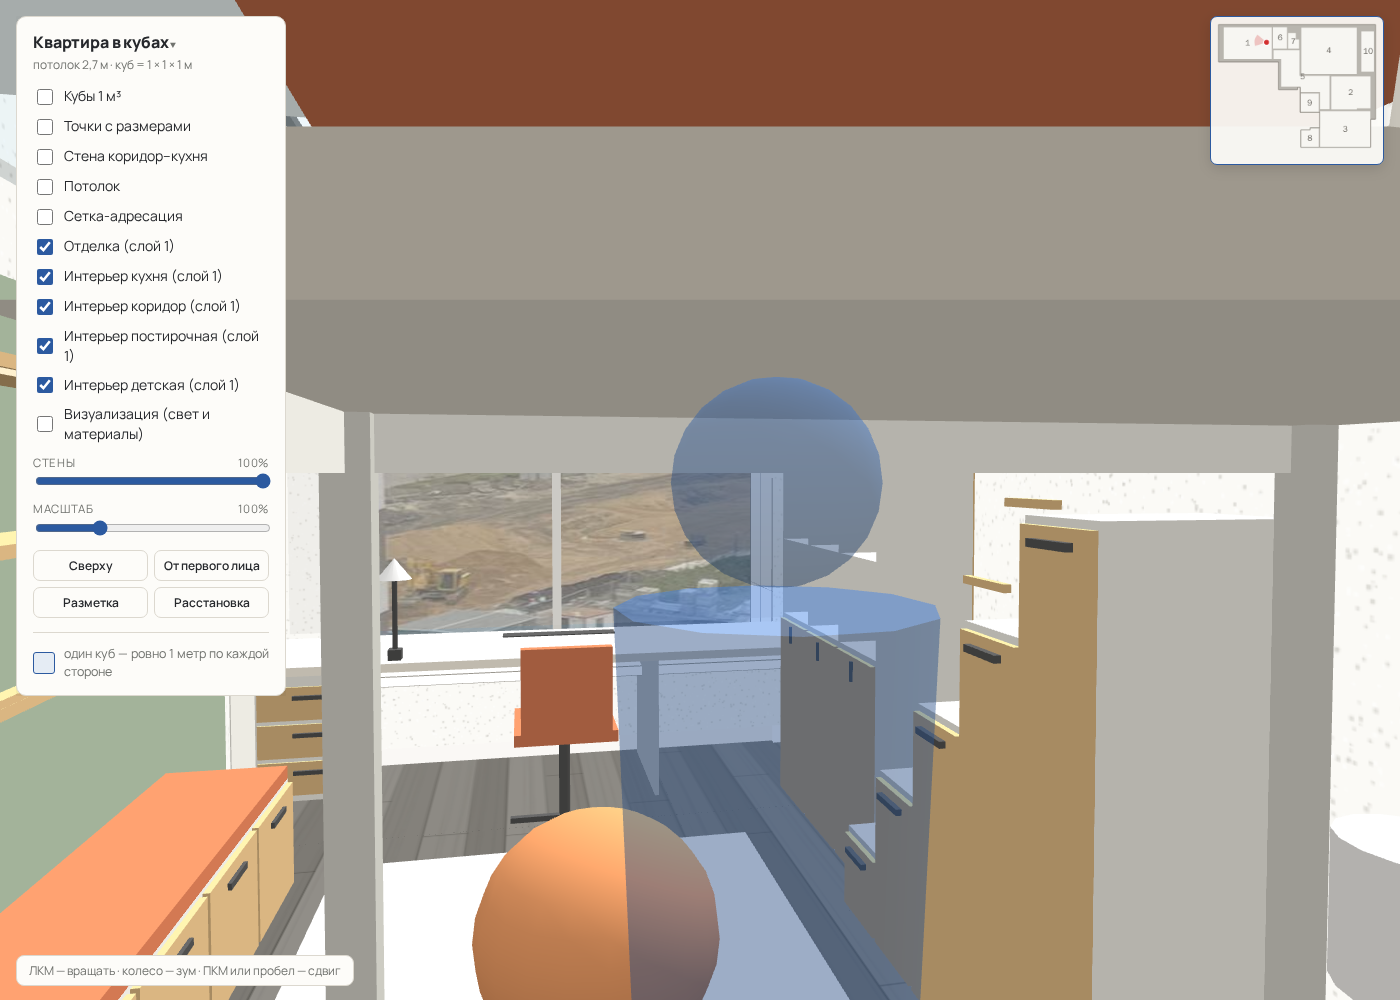
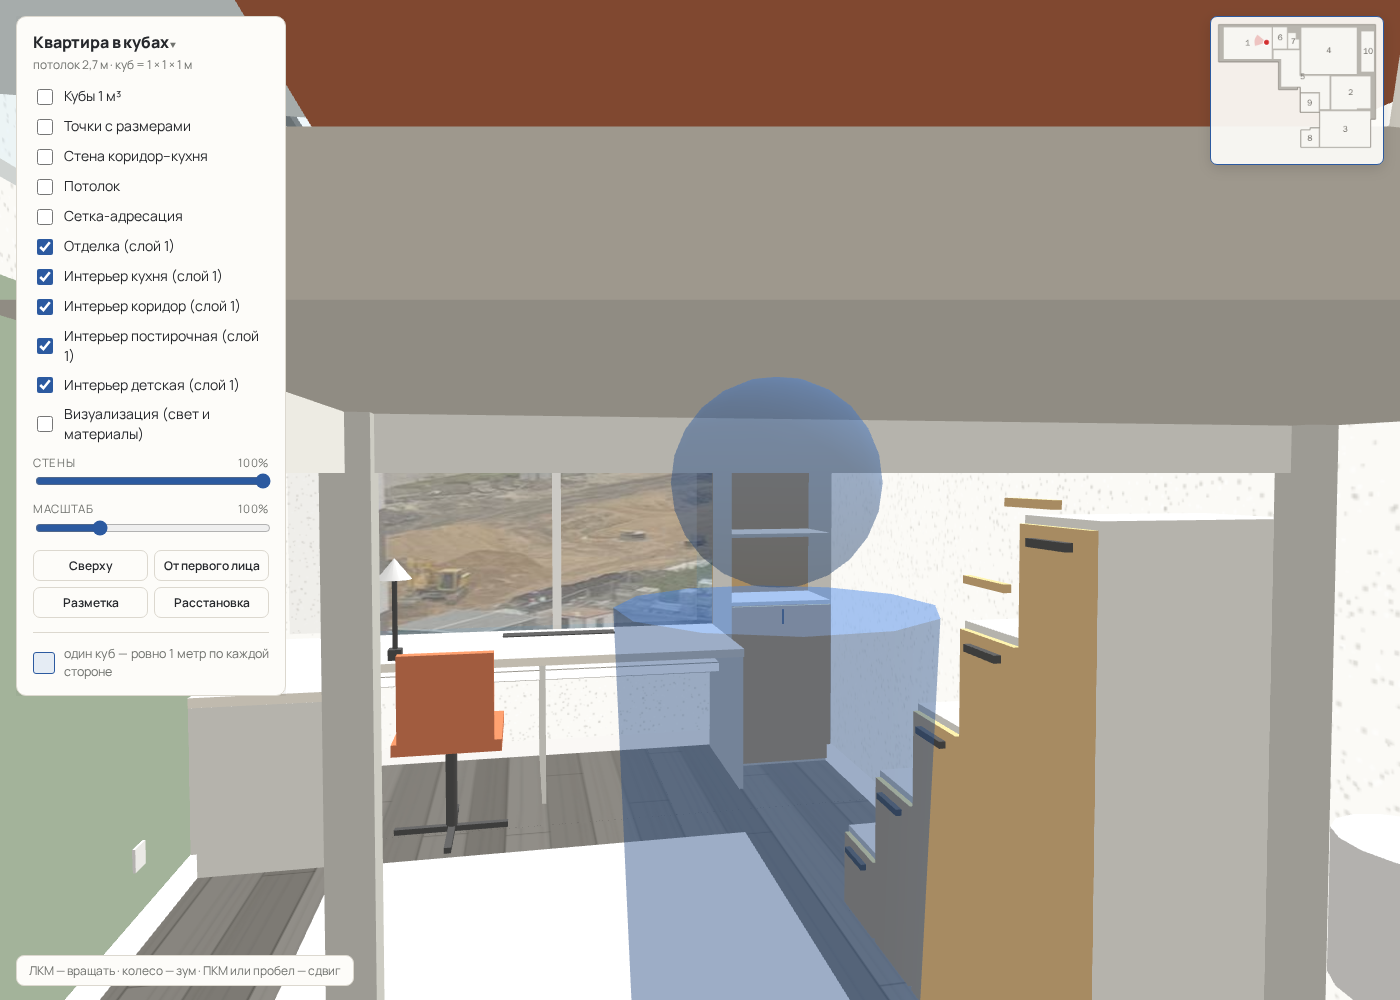
Комната 1: правки после просмотра — без мяча, полок и тумбы; угловой стол, узкий стеллаж в углу фасадом к двери

diff --git a/items.js b/items.js
@@ -114,30 +114,29 @@ const PHYS={}; // id → boxes
          b((x0+x1)/2-0.075,(x0+x1)/2+0.075,top-0.07,top-0.05,0.52,0.54,mat.knob);
          b(x0,x1,top+0.885,top+0.915,0.02,0.05,mat.oak); }                                          // handrail segments on the north wall, tread + 0.90
      }},
-    {id:'kiddesk',type:'стол-подоконник во всю западную стену',room:1,layer:'kid',pos:[0.896,1.874],rot:0,size:[0.75,0.72,2.99],fixed:'wall',
+    {id:'kiddesk',type:'угловой стол: вдоль окна 2.39 м и вдоль южной стены 1.23 м',room:1,layer:'kid',pos:[0.896,2.474],rot:0,size:[1.234,0.72,2.39],fixed:'wall',
      build(b){
-       b(0,0.75,0.68,0.72,0,2.99,mat.hpl);                                                           // worktop, light HPL
-       b(0.02,0.73,0,0.68,0,0.02,mat.kbody); b(0.02,0.73,0,0.68,2.97,2.99,mat.kbody);                // side panels
-       b(0.05,0.73,0,0.68,1.03,1.05,mat.kbody);                                                      // middle support at z≈2.9, clear of the chair
-       b(0.10,0.20,0.72,0.725,1.19,1.79,mat.knob);                                                   // vent grille over the radiator, 0.60 × 0.10
-       b(0.10,0.52,0.03,0.63,2.43,2.93,mat.kbody);                                                   // mobile pedestal 0.42 × 0.50 × 0.60
-       [0.06,0.24,0.42].forEach(y=>{ b(0.52,0.53,y,y+0.16,2.44,2.92,mat.oak); b(0.53,0.545,y+0.1,y+0.12,2.6,2.76,mat.knob); }); // 3 drawers
+       b(0,0.75,0.68,0.72,0,2.39,mat.hpl); b(0.75,1.234,0.68,0.72,1.79,2.39,mat.hpl);                 // worktop: west wing and south wing (depth 0.60)
+       b(0.02,0.73,0,0.68,0,0.02,mat.kbody); b(1.214,1.234,0,0.68,1.81,2.37,mat.kbody);               // end panels: north (at the shelf unit) and east
+       b(0.05,0.73,0,0.68,0.98,1.0,mat.kbody);                                                        // middle support under the west wing, clear of the chair
+       b(0.10,0.20,0.72,0.725,0.59,1.19,mat.knob);                                                     // vent grille over the radiator, 0.60 × 0.10
+       b(0.10,0.52,0.03,0.63,1.83,2.33,mat.kbody);                                                     // mobile pedestal 0.42 × 0.50 × 0.60 under the corner
+       [0.06,0.24,0.42].forEach(y=>{ b(0.52,0.53,y,y+0.16,1.84,2.32,mat.oak); b(0.53,0.545,y+0.1,y+0.12,2.0,2.16,mat.knob); }); // 3 drawers
      }},
-    {id:'kidchair',type:'рабочее кресло, регулируемое',room:1,layer:'kid',pos:[1.55,3.10],rot:0,size:[0.55,0.85,0.55],
+    {id:'kidchair',type:'рабочее кресло, регулируемое',room:1,layer:'kid',pos:[1.58,3.60],rot:0,size:[0.55,0.85,0.55],
      build(b,g){
        b(0.05,0.50,0.42,0.47,0.05,0.50,mat.terra); b(0.50,0.55,0.47,0.85,0.08,0.47,mat.terra);      // seat and back, faces the window
        const c=new THREE.Mesh(new THREE.CylinderGeometry(0.025,0.025,0.39,10),mat.knob); c.position.set(0.275,0.225,0.275); g.add(c); // gas lift
        b(0.03,0.52,0,0.03,0.26,0.29,mat.knob); b(0.26,0.29,0,0.03,0.03,0.52,mat.knob);                // base cross
      }},
-    {id:'kidshelf',type:'стеллаж до потолка',room:1,layer:'kid',pos:[1.646,1.874],rot:0,size:[1.189,2.70,0.43],fixed:'wall',
+    {id:'kidshelf',type:'стеллаж узкий в углу, фасадом к двери',room:1,layer:'kid',pos:[0.896,2.474],rot:270,size:[0.60,2.50,0.43],fixed:'wall',
      build(b){
-       const W=1.189, D=0.40, t=0.02, S=(W-4*t)/3;
-       b(0,W,0,t,0,D,mat.kbody); b(0,W,2.7-t,2.7,0,D,mat.kbody); b(0,W,t,2.7-t,0,t,mat.oak);         // bottom, top, oak back
-       for(let i=0;i<4;i++) b(i*(S+t),i*(S+t)+t,t,2.7-t,t,D,mat.kbody);                              // 4 verticals → 3 sections
-       [0.90,1.27,1.63,2.00].forEach(y=>b(t,W-t,y-t,y,t,D,mat.kbody));                                // shelves: closed 0–0.9, open cells 0.9–2.0, attic 2.0–2.7
-       for(let i=0;i<3;i++){ const x0=t+i*(S+t);
-         b(x0+0.003,x0+S-0.003,t+0.003,0.90-t-0.003,D,D+0.018,mat.oak); b(x0+S/2-0.005,x0+S/2+0.005,0.78,0.86,D+0.018,D+0.03,mat.knob);   // lower doors
-         b(x0+0.003,x0+S-0.003,2.0+0.003,2.7-t-0.003,D,D+0.018,mat.oak); b(x0+S/2-0.005,x0+S/2+0.005,2.05,2.13,D+0.018,D+0.03,mat.knob); } // attic doors
+       const W=0.60, D=0.40, t=0.02;
+       b(0,W,0,t,0,D,mat.kbody); b(0,W,2.5-t,2.5,0,D,mat.kbody); b(0,W,t,2.5-t,0,t,mat.oak);           // bottom, top, oak back
+       b(0,t,t,2.5-t,t,D,mat.kbody); b(W-t,W,t,2.5-t,t,D,mat.kbody);                                  // sides
+       [0.90,1.27,1.63,2.00].forEach(y=>b(t,W-t,y-t,y,t,D,mat.kbody));                                 // shelves: closed 0–0.9, open cells 0.9–2.0, attic 2.0–2.5
+       b(t+0.003,W-t-0.003,t+0.003,0.90-t-0.003,D,D+0.018,mat.oak); b(W/2-0.005,W/2+0.005,0.78,0.86,D+0.018,D+0.03,mat.knob);   // lower door
+       b(t+0.003,W-t-0.003,2.0+0.003,2.5-t-0.003,D,D+0.018,mat.oak); b(W/2-0.005,W/2+0.005,2.05,2.13,D+0.018,D+0.03,mat.knob); // attic door
      }},
     {id:'kidsofa',type:'диванчик в нише под кроватью',room:1,layer:'kid',pos:[4.65,2.05],rot:0,size:[0.75,0.80,1.60],
      build(b){
@@ -145,31 +144,16 @@ const PHYS={}; // id → boxes
        b(0,0.60,0.45,0.60,0,0.15,mat.fabric); b(0,0.60,0.45,0.60,1.45,1.60,mat.fabric);              // armrests
        [[0.03,0.03],[0.69,0.03],[0.03,1.54],[0.69,1.54]].forEach(([x,z])=>b(x,x+0.03,0,0.10,z,z+0.03,mat.knob)); // legs
      }},
-    {id:'kidbench',type:'тумба-скамья с 4 ящиками',room:1,layer:'kid',pos:[2.35,4.41],rot:0,size:[1.80,0.50,0.45],fixed:'wall',
-     build(b){
-       b(0.03,1.77,0,0.05,0.05,0.42,mat.knob); b(0,1.80,0.05,0.45,0.02,0.45,mat.kbody); b(0,1.80,0.45,0.50,0.02,0.45,mat.terra); // plinth, body, seat cushion
-       for(let i=0;i<4;i++){ const x0=0.01+i*0.45; b(x0,x0+0.43,0.06,0.44,0,0.02,mat.oak); b(x0+0.14,x0+0.29,0.38,0.40,-0.012,0,mat.knob); } // drawer fronts north
-     }},
-    {id:'kidledge',type:'планка для рисунков',room:1,layer:'kid',pos:[1.75,4.75],rot:0,size:[2.40,1.05,0.10],fixed:'wall',
-     build(b){ b(0,2.4,1.02,1.05,0,0.095,mat.oak); b(0,2.4,1.05,1.07,0,0.02,mat.oak); }},          // shelf and front lip
-    {id:'kidshelf1',type:'открытая полка для поделок, нижняя',room:1,layer:'kid',pos:[2.00,4.61],rot:0,size:[2.15,1.45,0.25],fixed:'wall',
-     build(b){ b(0,2.15,1.42,1.45,0,0.235,mat.oak); [0.02,1.065,2.11].forEach(x=>b(x,x+0.02,1.30,1.42,0.05,0.235,mat.kbody)); }}, // brackets
-    {id:'kidshelf2',type:'открытая полка для поделок, верхняя',room:1,layer:'kid',pos:[2.00,4.61],rot:0,size:[2.15,1.85,0.25],fixed:'wall',
-     build(b){ b(0,2.15,1.82,1.85,0,0.235,mat.oak); [0.02,1.065,2.11].forEach(x=>b(x,x+0.02,1.70,1.82,0.05,0.235,mat.kbody)); }},
-    {id:'led2',type:'LED-лента под верхней полкой (подсветка нижней)',room:1,layer:'kid',pos:[2.00,4.62],rot:0,size:[2.15,1.82,0.02],fixed:'wall',
-     build(b){ b(0,2.15,1.81,1.82,0,0.02,mat.led); }},
     {id:'pegboard',type:'перфорированная панель над столом',room:1,layer:'kid',pos:[0.95,4.814],rot:0,size:[0.65,1.75,0.03],fixed:'wall',
      build(b){ b(0,0.65,0.95,1.75,0.01,0.03,mat.oak); [[0.12,1.55],[0.32,1.55],[0.52,1.55],[0.2,1.2],[0.45,1.2]].forEach(([x,y])=>b(x,x+0.03,y,y+0.03,-0.02,0.01,mat.knob)); }}, // hooks
     {id:'kidrug',type:'ковёр моющийся',room:1,layer:'kid',pos:[2.15,2.60],rot:0,size:[1.60,0.01,1.70],
      build(b){ b(0,1.6,0,0.01,0,1.7,mat.rug); }},
-    {id:'beanbag',type:'кресло-мешок',room:1,layer:'kid',pos:[3.10,3.02],rot:0,size:[0.68,0.65,0.68],
-     build(b,g){ const s=new THREE.Mesh(new THREE.SphereGeometry(0.34,20,14),mat.ochre); s.scale.y=0.65/0.68; s.position.set(0.34,0.325,0.34); g.add(s); }},
     {id:'projector',type:'проектор короткофокусный на потолке (throw ≈0.57, экран M13)',room:1,layer:'kid',pos:[2.15,3.235],rot:0,size:[0.30,2.70,0.25],fixed:'wall',
      build(b,g){ b(0,0.30,2.44,2.56,0,0.25,mat.kbody); b(0.02,0.06,2.47,2.53,-0.005,0,mat.knob); const c=new THREE.Mesh(new THREE.CylinderGeometry(0.02,0.02,0.14,8),mat.knob); c.position.set(0.15,2.63,0.125); g.add(c); }}, // body, lens to the west, bracket
     {id:'screen',type:'кассета моторизованного экрана 2.20×1.24 (свёрнут)',room:1,layer:'kid',pos:[0.99,2.20],rot:0,size:[0.12,2.65,2.30],fixed:'wall',
      build(b){ b(0,0.12,2.53,2.65,0,2.30,mat.kbody); b(0.03,0.09,2.52,2.53,0.05,2.25,mat.knob); }},   // ponytail: canvas not modelled, add a toggle when the cinema view is needed
-    {id:'curtain',type:'карниз с тюлем (блэкаут в проёме окна)',room:1,layer:'kid',pos:[0.911,1.874],rot:0,size:[0.05,2.68,2.99],fixed:'wall',
-     build(b){ b(0.01,0.04,2.65,2.68,0,2.99,mat.kbody); b(0.015,0.025,0.75,2.64,0.10,2.89,mat.tulle); }},
+    {id:'curtain',type:'карниз с тюлем (блэкаут в проёме окна)',room:1,layer:'kid',pos:[0.911,2.474],rot:0,size:[0.05,2.68,2.39],fixed:'wall',
+     build(b){ b(0.01,0.04,2.65,2.68,0,2.39,mat.kbody); b(0.015,0.025,0.75,2.64,0.10,2.29,mat.tulle); }},
     {id:'kidlight',type:'потолочный светильник Ø0.50, 3000 K, диммер',room:1,layer:'kid',pos:[2.45,3.25],rot:0,size:[0.50,2.70,0.50],fixed:'wall',
      build(b,g){ const c=new THREE.Mesh(new THREE.CylinderGeometry(0.25,0.25,0.04,32),mat.lamp); c.position.set(0.25,2.68,0.25); g.add(c); }},
     {id:'track',type:'трек с 2 спотами на галерейную стену',room:1,layer:'kid',pos:[1.90,4.22],rot:0,size:[2.20,2.70,0.06],fixed:'wall',
@@ -185,10 +169,10 @@ const PHYS={}; // id → boxes
      build(b){ b(0,0.01,0.91,0.99,0,0.08,mat.lamp); }},
     // sockets: flat boxes 0.08 × 0.08 × 0.01 on the wall, purpose in the caption; all with shutters
     {id:'sock1',type:'розетки 2+2 USB у стола, южный торец',room:1,layer:'kid',pos:[1.16,4.834],rot:0,size:[0.08,0.94,0.01],fixed:'wall',build(b){ b(0,0.08,0.86,0.94,0,0.01,mat.lamp); }},
-    {id:'sock2',type:'розетки 2+2 USB у стола, северный торец',room:1,layer:'kid',pos:[1.26,1.894],rot:0,size:[0.08,0.94,0.01],fixed:'wall',build(b){ b(0,0.08,0.86,0.94,0,0.01,mat.lamp); }},
+    {id:'sock2',type:'розетки 2+2 USB у стола, восточный торец',room:1,layer:'kid',pos:[2.06,4.834],rot:0,size:[0.08,0.94,0.01],fixed:'wall',build(b){ b(0,0.08,0.86,0.94,0,0.01,mat.lamp); }},
     {id:'sock3',type:'розетка + USB в нише под кроватью, вывод HDMI от проектора',room:1,layer:'kid',pos:[5.415,3.69],rot:0,size:[0.01,0.44,0.08],fixed:'wall',build(b){ b(0,0.01,0.36,0.44,0,0.08,mat.lamp); }},
     {id:'sock4',type:'розетка у изголовья кровати (ночник, телефон)',room:1,layer:'kid',pos:[4.66,1.894],rot:0,size:[0.08,2.09,0.01],fixed:'wall',build(b){ b(0,0.08,2.01,2.09,0,0.01,mat.lamp); }},
-    {id:'sock5',type:'розетка общего назначения (пылесос, увлажнитель)',room:1,layer:'kid',pos:[1.96,4.834],rot:0,size:[0.08,0.34,0.01],fixed:'wall',build(b){ b(0,0.08,0.26,0.34,0,0.01,mat.lamp); }},
+    {id:'sock5',type:'розетка общего назначения (пылесос, увлажнитель)',room:1,layer:'kid',pos:[2.56,4.834],rot:0,size:[0.08,0.34,0.01],fixed:'wall',build(b){ b(0,0.08,0.26,0.34,0,0.01,mat.lamp); }},
     {id:'sock6',type:'розетка в потолке для проектора',room:1,layer:'kid',pos:[2.26,3.51],rot:0,size:[0.08,2.70,0.08],fixed:'wall',build(b){ b(0,0.08,2.69,2.70,0,0.08,mat.lamp); }},
     {id:'sock7',type:'розетка в потолке для мотора экрана',room:1,layer:'kid',pos:[1.06,2.11],rot:0,size:[0.08,2.70,0.08],fixed:'wall',build(b){ b(0,0.08,2.69,2.70,0,0.08,mat.lamp); }},
   ];

diff --git a/tools/check.js b/tools/check.js
@@ -357,7 +357,7 @@ const { chromium } = require('playwright');
     const sofaTop = bb(ITEM_GROUPS.kidsofa).max.y;
     return { n: kids.length, inside, hitPlat, warn, tops, sofaTop, bedPos: ITEM_GROUPS.kidbed.userData.pos };
   });
-  if (kid.n < 29) problems.push('комната 1: предметов слоя kid ' + kid.n + ' (< 29)');
+  if (kid.n < 23) problems.push('комната 1: предметов слоя kid ' + kid.n + ' (< 23)');
   if (kid.inside.length) problems.push('комната 1: предметы вне помещения: ' + kid.inside.join(', '));
   if (kid.hitPlat.length) problems.push('комната 1: пересекают платформу кровати: ' + kid.hitPlat.join(', '));
   if (kid.sofaTop > 1.7) problems.push('комната 1: диванчик выше низа платформы: ' + kid.sofaTop);

diff --git a/tasks/room1-kid/README.md b/tasks/room1-kid/README.md
@@ -357,6 +357,15 @@ issue: —
 
 Скриншоты: `room1-top.png`, `room1-door.png`, `room1-gallery.png`, `room1-bed.png` в этой папке.
 
+## Правки пользователя 2026-09-05 (после просмотра)
+
+- Убраны: кресло-мешок M11, полки M7/M8, планка M6, LED M21, тумба-скамья M5 (`.local/del0.png`).
+- Стол M1 стал угловым (`.local/eva_window.png`): вдоль окна z 2.474–4.864 и крыло 1.23 м вдоль южной стены (глубина 0.60);
+  крыло не длиннее — иначе до габарита кровати < 0.70. Кресло M2 в углу `[1.58, 3.60]`.
+- Стеллаж M3 заменён узким 0.60 × 0.40 × 2.50 в северо-западном углу, спиной к западной стене, фасадом к двери (`rot 270`).
+  Перекрывает 0.36 м окна (окно с z 2.11). Тюль M14 начинается от стеллажа.
+- Розетка M24 переехала с северной стены на южную над крылом стола (x 2.06); M27 — x 2.56. Акцентная стена и трек оставлены под постеры.
+
 ## Что не делалось (дизайнером)
 
 - Не менялись `items.js`/`app.js` — это задача агента-исполнителя.
